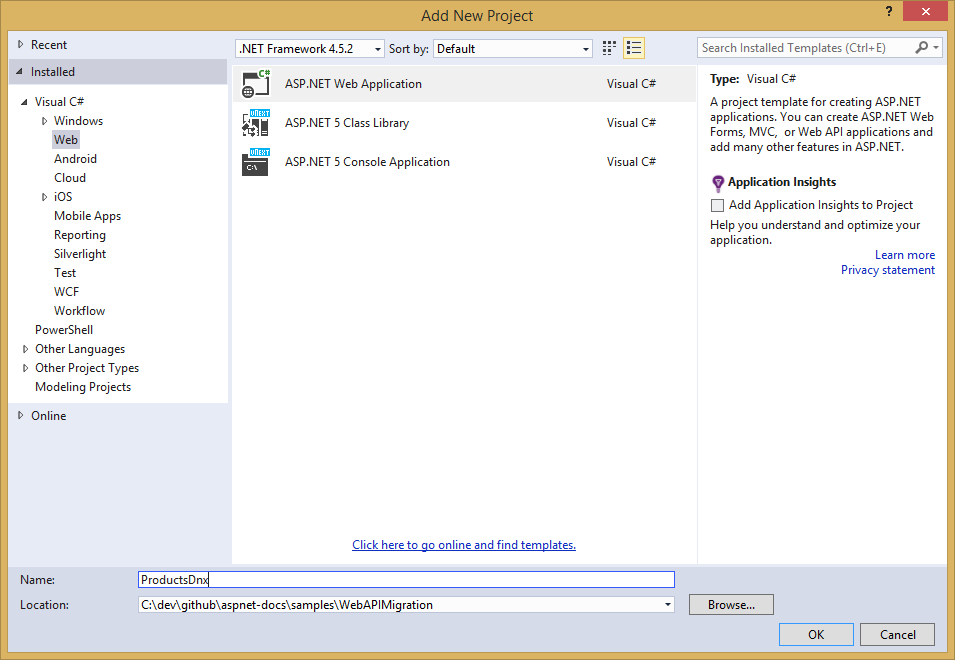
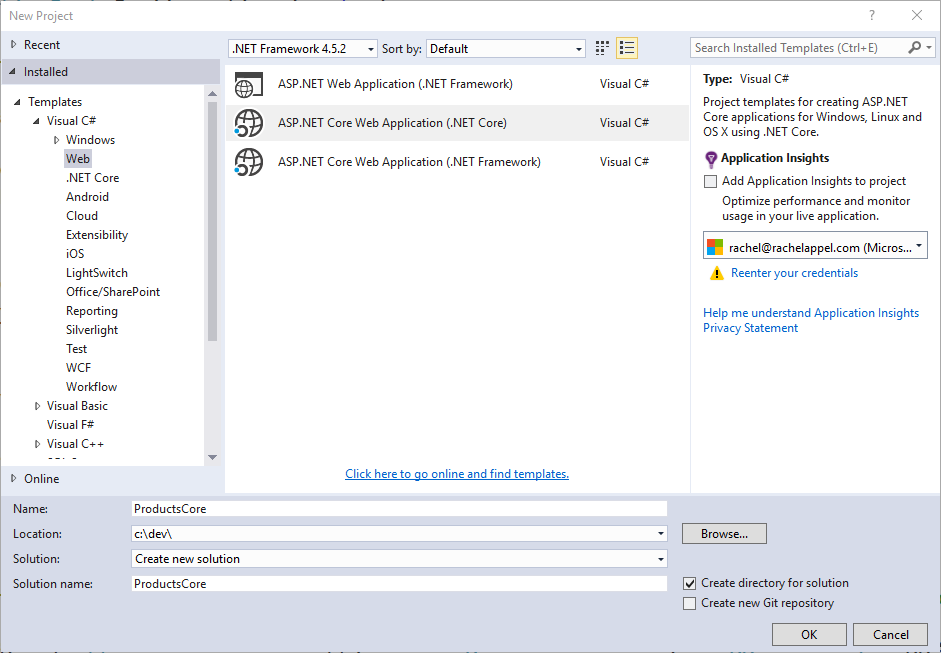
Update WebAPI Migration doc (#1479)

Changed region(s): [[0.0, 0.0, 1.0, 1.0], [0.6164, 0.1838, 0.678, 0.2757], [0.6164, 0.1225, 0.7088, 0.1531]]

diff --git a/aspnet/migration/webapi.rst b/aspnet/migration/webapi.rst
@@ -50,11 +50,11 @@ Now that we have a simple project from which to start, we can demonstrate how to
 Create the Destination Project
 ------------------------------
 
-Using Visual Studio, create a new, empty solution, and add the existing *ProductsApp* project to it. Then, add a new Web Project to the solution. Name the new project 'ProductsCore'.
+Using Visual Studio, create a new, empty solution, and name it *WebAPIMigration*. Add the existing *ProductsApp* project to it, then, add a new ASP.NET Core Web Application Project to the solution. Name the new project *ProductsCore*.
 
 .. image:: webapi/_static/add-web-project.png
 
-Next, choose the ASP.NET Core Web API project template. We will migrate the *ProductsApp* contents to this new project.
+Next, choose the Web API project template. We will migrate the *ProductsApp* contents to this new project.
 
 .. image:: webapi/_static/aspnet-5-webapi.png
 
